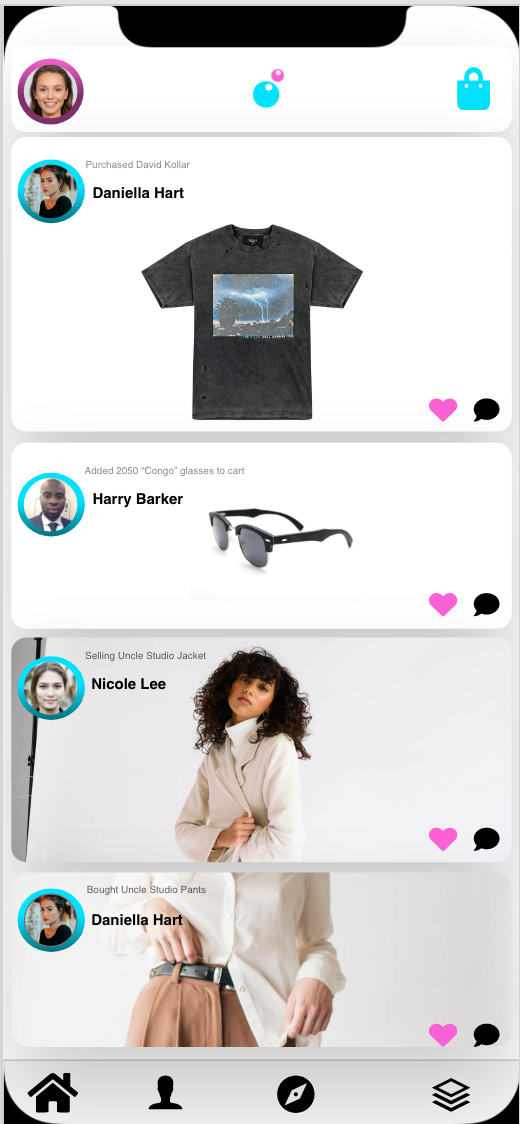
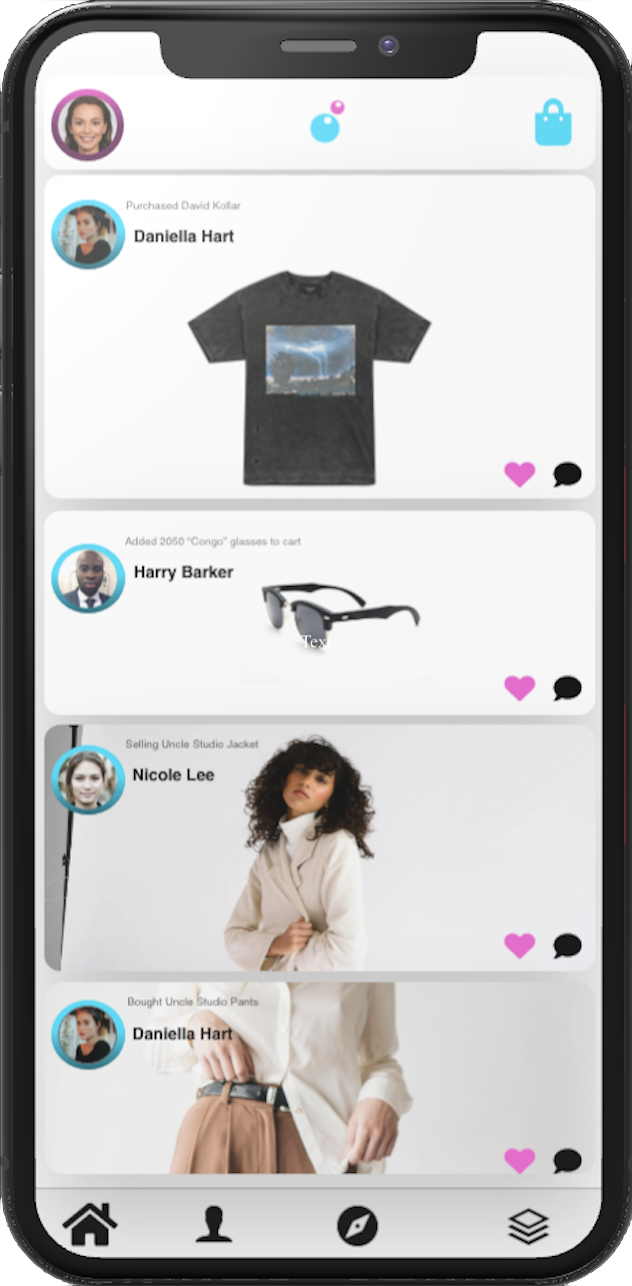
changes in styling

diff --git a/src/components/hero/HeroIllustration.js b/src/components/hero/HeroIllustration.js
@@ -1,4 +1,5 @@
 import React, { Fragment } from 'react';
+import mainScreen from "../../assets/images/main-screen.png";
 
 const HeroIllustration = () => {
   return (
@@ -79,130 +80,7 @@ const HeroIllustration = () => {
         </svg>
       </div>
       <div className="hero-illustration-browser is-revealing">
-        <svg width="800" height="450" viewBox="0 0 800 450" xmlns="http://www.w3.org/2000/svg">
-          <defs>
-            <linearGradient x1="50%" y1="0%" x2="50%" y2="100%" id="browser-a">
-              <stop stopColor="#F89595" offset="0%" />
-              <stop stopColor="#EF5C5C" offset="100%" />
-            </linearGradient>
-            <linearGradient x1="50%" y1="0%" x2="50%" y2="100%" id="browser-b">
-              <stop stopColor="#FFDFB0" offset="0%" />
-              <stop stopColor="#FFBB78" offset="100%" />
-            </linearGradient>
-            <linearGradient x1="50%" y1="0%" x2="50%" y2="100%" id="browser-c">
-              <stop stopColor="#83E78D" offset="0%" />
-              <stop stopColor="#4BCA55" offset="100%" />
-            </linearGradient>
-            <filter x="-30%" y="-42.9%" width="184%" height="220%" filterUnits="objectBoundingBox"
-              id="browser-d">
-              <feOffset dx="24" dy="24" in="SourceAlpha" result="shadowOffsetOuter1"
-              />
-              <feGaussianBlur stdDeviation="24" in="shadowOffsetOuter1" result="shadowBlurOuter1"
-              />
-              <feColorMatrix values="0 0 0 0 0.866666667 0 0 0 0 0.905882353 0 0 0 0 0.937254902 0 0 0 0.56 0"
-                in="shadowBlurOuter1" result="shadowMatrixOuter1" />
-              <feMerge>
-                <feMergeNode in="shadowMatrixOuter1" />
-                <feMergeNode in="SourceGraphic" />
-              </feMerge>
-            </filter>
-            <linearGradient x1="19.946%" y1="72.147%" x2="73.772%" y2="18.374%" id="browser-e">
-              <stop stopColor="#F8F7FF" offset="0%" />
-              <stop stopColor="#DAD8FF" offset="100%" />
-            </linearGradient>
-            <linearGradient x1="50%" y1="0%" x2="50%" y2="100%" id="browser-f">
-              <stop stopColor="#DAD8FF" offset="0%" />
-              <stop stopColor="#857DF3" offset="100%" />
-            </linearGradient>
-            <linearGradient x1="50%" y1="0%" x2="50%" y2="100%" id="browser-g">
-              <stop stopColor="#DAD8FF" offset="0%" />
-              <stop stopColor="#CDCAFF" offset="100%" />
-            </linearGradient>
-            <linearGradient x1="94.808%" y1="-15.701%" x2="6.924%" y2="82.567%" id="browser-h">
-              <stop stopColor="#5DFBD7" stopOpacity="0" offset="0%" />
-              <stop stopColor="#5DFBD7" offset="100%" />
-            </linearGradient>
-            <linearGradient x1="1.733%" y1="-10.509%" y2="77.375%" id="browser-i">
-              <stop stopColor="#6EFACC" stopOpacity="0" offset="0%" />
-              <stop stopColor="#6EFACC" offset="100%" />
-            </linearGradient>
-            <linearGradient x1="92.458%" y1="5.866%" x2="0%" y2="100%" id="browser-j">
-              <stop stopColor="#5DFBD7" offset="0%" />
-              <stop stopColor="#5DFBD7" stopOpacity="0" offset="100%" />
-            </linearGradient>
-            <linearGradient x1="92.458%" y1="5.866%" x2="0%" y2="100%" id="browser-k">
-              <stop stopColor="#5DFBD7" stopOpacity="0" offset="0%" />
-              <stop stopColor="#5DFBD7" stopOpacity="0.513" offset="48.724%" />
-              <stop stopColor="#5DFBD7" stopOpacity="0" offset="100%" />
-            </linearGradient>
-            <linearGradient x1="92.458%" y1="5.866%" x2="0%" y2="100%" id="browser-l">
-              <stop stopColor="#5DFBD7" stopOpacity="0" offset="0%" />
-              <stop stopColor="#5DFBD7" stopOpacity="0.513" offset="47.494%" />
-              <stop stopColor="#5DFBD7" stopOpacity="0" offset="100%" />
-            </linearGradient>
-            <filter x="-23.1%" y="-21.8%" width="192.3%" height="187.3%" filterUnits="objectBoundingBox"
-              id="browser-m">
-              <feOffset dx="24" dy="24" in="SourceAlpha" result="shadowOffsetOuter1"
-              />
-              <feGaussianBlur stdDeviation="12" in="shadowOffsetOuter1" result="shadowBlurOuter1"
-              />
-              <feColorMatrix values="0 0 0 0 0.866666667 0 0 0 0 0.905882353 0 0 0 0 0.937254902 0 0 0 0.56 0"
-                in="shadowBlurOuter1" result="shadowMatrixOuter1" />
-              <feMerge>
-                <feMergeNode in="shadowMatrixOuter1" />
-                <feMergeNode in="SourceGraphic" />
-              </feMerge>
-            </filter>
-            <linearGradient x1="100%" y1="50%" x2="-57.904%" y2="50%" id="browser-n">
-              <stop stopColor="#DAD8FF" offset="0%" />
-              <stop stopColor="#857DF3" offset="100%" />
-            </linearGradient>
-            <filter x="-500%" y="-500%" width="1000%" height="1000%" filterUnits="objectBoundingBox"
-              id="dropshadow-1">
-              <feOffset dy="16" in="SourceAlpha" result="shadowOffsetOuter" />
-              <feGaussianBlur stdDeviation="24" in="shadowOffsetOuter" result="shadowBlurOuter"
-              />
-              <feColorMatrix values="0 0 0 0 0.10 0 0 0 0 0.17 0 0 0 0 0.21 0 0 0 0.22 0"
-                in="shadowBlurOuter" />
-            </filter>
-          </defs>
-          <g fill="none" fillRule="evenodd">
-            <rect width="800" height="450" rx="2" fill="#FFF" filter="url(#dropshadow-1)"
-            />
-            <rect width="800" height="450" rx="2" fill="#FFF" />
-            <path fill="#DDE7EF" d="M0 32h800v1H0z" />
-            <circle fill="url(#browser-a)" cx="24" cy="16" r="4" />
-            <circle fill="url(#browser-b)" cx="40" cy="16" r="4" />
-            <circle fill="url(#browser-c)" cx="56" cy="16" r="4" />
-            <g filter="url(#browser-d)" transform="translate(505 196)" fillRule="nonzero">
-              <path d="M100 100l100-50.426L103.193.762a7.087 7.087 0 0 0-6.393 0L0 49.574 100 100z"
-                fill="url(#browser-e)" />
-              <path d="M199 90L99 139.875v-40L199 50v40z" fill="url(#browser-f)" />
-              <path d="M100 139.875L0 90V50l100 49.875v40z" fill="url(#browser-g)" />
-            </g>
-            <g strokeWidth="2">
-              <path stroke="url(#browser-h)" d="M498.336 298.7l-62.117 30.105L194 208"
-                transform="translate(169 54)" />
-              <path d="M511.219 127.805L269 7" stroke="url(#browser-i)" transform="translate(169 54)"
-              />
-              <path d="M312 157.547L533.512 43" stroke="url(#browser-j)" transform="translate(169 54)"
-              />
-              <path d="M222 114.547L443.512 0" stroke="url(#browser-k)" transform="translate(169 54)"
-              />
-              <path d="M0 356.547L221.512 242" stroke="url(#browser-l)" transform="translate(169 54)"
-              />
-              <path d="M215 319.266L312.031 268" stroke="url(#browser-j)" transform="translate(169 54)"
-              />
-            </g>
-            <g filter="url(#browser-m)" transform="scale(-1 1) rotate(45 -338.122 -406.594)"
-              fillRule="nonzero">
-              <path d="M52 0L.511 70.268a2.668 2.668 0 0 0-.478 1.987 2.63 2.63 0 0 0 1.076 1.732L52 110V0z"
-                fill="url(#browser-e)" />
-              <path d="M103.49 70.27L52 0v110l50.89-36.011a2.637 2.637 0 0 0 1.077-1.732 2.669 2.669 0 0 0-.476-1.987z"
-                fill="url(#browser-n)" />
-            </g>
-          </g>
-        </svg>
+        <img src={mainScreen} alt="app preview" width="300" height="300"/>
       </div>
       <div className="hero-ball hero-ball-3 is-revealing">
         <svg width="80" height="80" viewBox="0 0 80 80" xmlns="http://www.w3.org/2000/svg">

diff --git a/src/pages/brand.js b/src/pages/brand.js
@@ -1,6 +1,6 @@
 import React from 'react';
 import Layout from '../layouts/index';
-import fyScreen from '../assets/images/fy-screen.png'
+import fyScreen from '../assets/images/forYouScreen.png'
 
 const BrandPage = () => {
   return (
@@ -11,13 +11,16 @@ const BrandPage = () => {
             <div className="entry-content">
               <div className="container-sm">
                 <header className="entry-header">
-                  <h1 className="entry-title">Convert customer browsing into Sales Using Pop-Up</h1>
+                  <h1 className="entry-title">Evaluate your shops metrics and convert customer browsing into sales using PopUp</h1>
                 </header>
 
                 <div className="entry-body">
-                  <p>
-                    PopUp will save your brand time and money. Reduce your marketing expenses and let customers come to you. With PopUp’s curated and personalized recommendations, shoppers have the ability to buy from you with ease. All this and more all for free.
-                </p>
+                    <ul>
+                      <li className={"list-item"}>Order Requests</li>
+                      <li className={"list-item"}>Daily Sales</li>
+                      <li className={"list-item"}>Number of Customers putting your products in their carts</li>
+                      <li className={"list-item"}>More than 3+ other metrics</li>
+                    </ul>
                 </div>
               </div>
             </div>

diff --git a/src/components/hero/Hero.js b/src/components/hero/Hero.js
@@ -1,8 +1,8 @@
 import React, { Component } from 'react'
 import { setupScrollReveal } from '../../assets/js/main.js';
-import mainScreen from "../../assets/images/main-screen.png";
 
 import NewsletterForm from '../forms/NewsletterForm';
+import {NavLink} from "react-router-dom";
 
 class Hero extends Component {
   componentDidMount() {
@@ -11,6 +11,7 @@ class Hero extends Component {
 
   render() {
     const { title, content } = this.props;
+    const Illustration = this.props.illustration;
 
     return (
       <section className="hero">
@@ -19,15 +20,15 @@ class Hero extends Component {
             <div className="hero-copy">
               <div className="container-sm">
                 <h1 className="hero-title h2-mobile mt-0 is-revealing">{title}</h1>
-                <p className="hero-paragraph is-revealing">{content}</p>
+                <p className="hero-paragraph is-revealing">{content} <a href={"/brand"} className={"brandsCTA"}>Learn more about selling on PopUp</a></p>
               </div>
-
               <NewsletterForm className="hero-form" submit="Get early access" />
             </div>
-
-            <div className="hero-illustration">
-              <img src={mainScreen} alt="app preview" width="300" height="300"/>
-            </div>
+          </div>
+        </div>
+        <div className="container">
+          <div className="hero-illustration">
+            <Illustration />
           </div>
         </div>
       </section>

diff --git a/src/assets/css/style.css b/src/assets/css/style.css
@@ -1075,7 +1075,12 @@ label {
 # Hero
 --------------------------------------------------------------*/
 .hero {
-  text-align: center; }
+  text-align: center;
+  display: flex;
+  margin: 0 auto;
+  max-width: 1128px;
+  flex-direction: column;
+  align-items: center; }
 
 .hero-inner {
   position: relative;
@@ -1148,6 +1153,17 @@ label {
   top: 308px;
   left: 185px; }
 
+.brands {
+  margin-top: 20px;
+  margin-bottom: 25px;
+  display: flex;
+  width: 100%;
+  align-items: center;
+  justify-content: center; }
+
+.brandsCTA {
+  color: blue; }
+
 @media (min-width: 641px) {
   .hero-paragraph {
     padding-left: 72px;
@@ -1171,7 +1187,8 @@ label {
     text-align: left;
     padding-top: 80px;
     padding-bottom: 80px;
-    padding-right: 150px; }
+    padding-right: 150px;
+    flex-direction: row; }
     .hero::before {
       top: -80px;
       /* Header height */
@@ -1194,8 +1211,6 @@ label {
       content: normal; }
   .hero-illustration-browser svg {
     width: 800px; }
-  .hero-form {
-    margin: 0; }
   .hero-squares-2,
   .hero-ball-1,
   .hero-ball-3 {

diff --git a/src/pages/index.js b/src/pages/index.js
@@ -8,7 +8,7 @@ const IndexPage = () => {
     <Layout>
       <Hero
         title="PopUp makes online shopping fun, unique and social."
-        content="Are you tired of opening a million different tabs when searching for an outfit? Curious to know where your best friend got that new shirt they won’t tell you about? With PopUp buying your next outfit is as easy as swiping right. Take the friction out of shopping with curated and personalized recommendations and always stay in the know about when your friends are buying and shopping for new outfits."
+        content="With PopUp buying your next outfit is as easy as swiping right. Take the friction out of shopping with curated and personalized recommendations and always stay in the know about when your friends are buying and shopping for new outfits."
         illustration={HeroIllustration}
       />
     </Layout>

diff --git a/src/assets/css/scss/layout/_hero.scss b/src/assets/css/scss/layout/_hero.scss
@@ -1,5 +1,10 @@
 .hero {
     text-align: center;
+	display: flex;
+	margin: 0 auto;
+	max-width: 1128px;
+	flex-direction: column;
+	align-items: center;
 }
 
 .hero-inner {
@@ -92,6 +97,19 @@
     left: 185px;
 }
 
+.brands {
+	margin-top: 20px;
+	margin-bottom: 25px;
+	display: flex;
+	width: 100%;
+	align-items: center;
+	justify-content: center;
+}
+
+.brandsCTA {
+	color: blue;
+}
+
 @include media( '>medium' ) {
 
     .hero-paragraph {
@@ -133,6 +151,7 @@
         padding-top: 80px;
         padding-bottom: 80px;
 		padding-right: 150px;
+		flex-direction: row;
 
         &::before {
             top: -80px; /* Header height */
@@ -173,9 +192,9 @@
         }
     }
 
-    .hero-form {
-        margin: 0;
-    }
+    //.hero-form {
+    //    margin: 0;
+    //}
 
     .hero-squares-2,
     .hero-ball-1,

diff --git a/src/index.js b/src/index.js
@@ -9,14 +9,14 @@ import Routes from './routes';
 import registerServiceWorker from './registerServiceWorker';
 
 const firebaseConfig = {
-  apiKey: "",
-  authDomain: "",
-  databaseURL: "",
-  projectId: "",
-  storageBucket: "",
-  messagingSenderId: "",
-  appId: "",
-  measurementId: ""
+  apiKey: "AIzaSyDZGrRwhDa0CGxA9mYF835Vb8y4V0el3Ik",
+  authDomain: "popup-react.firebaseapp.com",
+  databaseURL: "https://popup-react.firebaseio.com",
+  projectId: "popup-react",
+  storageBucket: "popup-react.appspot.com",
+  messagingSenderId: "200835351251",
+  appId: "1:200835351251:web:8be66c5779037913fe0a26",
+  measurementId: "G-QS59J34QH7"
 };
 
 var firebase = require('firebase');

diff --git a/src/assets/css/customize.css b/src/assets/css/customize.css
@@ -6,6 +6,10 @@
 # Header
 --------------------------------------------------------------*/
 
+.blue {
+	color: #8179f2;
+}
+
 .header-brand h1 {
 	font-size: 20px;
 	font-weight: 700;
@@ -52,6 +56,25 @@
 
 .entry-body {
 	margin-bottom: 32px;
+}
+
+.list-item {
+	list-style: none;
+}
+
+.list-item:before {
+	position: absolute;
+	content: "";
+	-webkit-user-select: none;
+	-moz-user-select: none;
+	-ms-user-select: none;
+	user-select: none;
+	border-radius: 50%;
+	width: .5rem;
+	height: .5rem;
+	left: 0;
+	transform: translate(0, 100%);
+	box-shadow: inset 0 0 0 .15rem rgb(65, 87, 243);
 }
 
 .entry-media {
